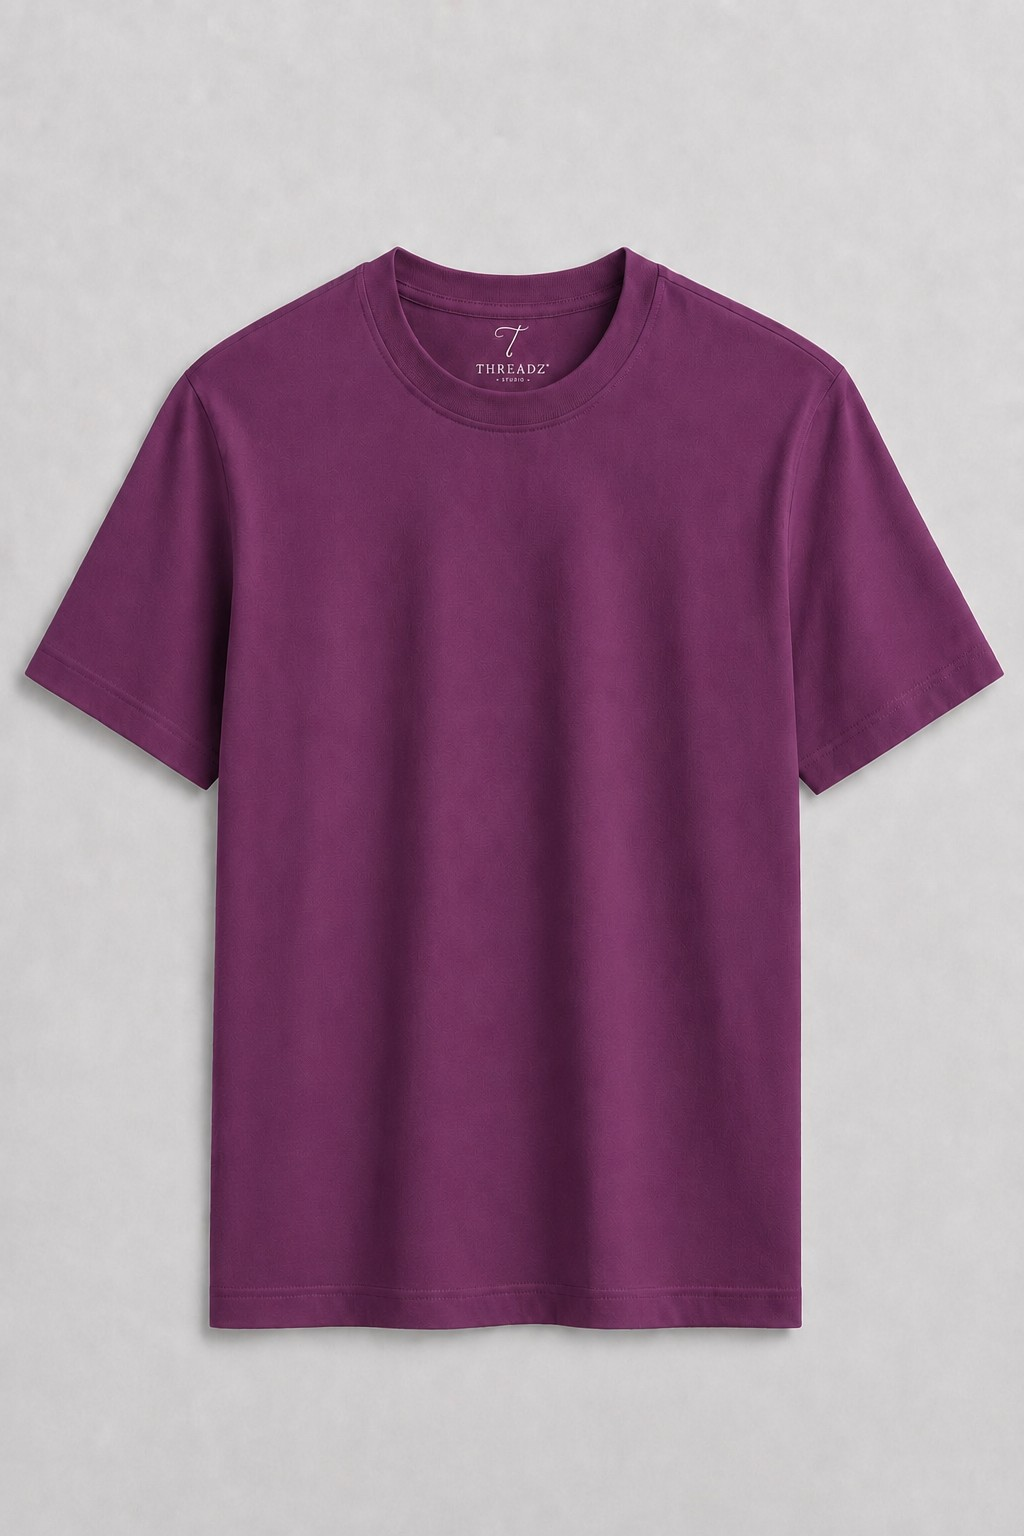
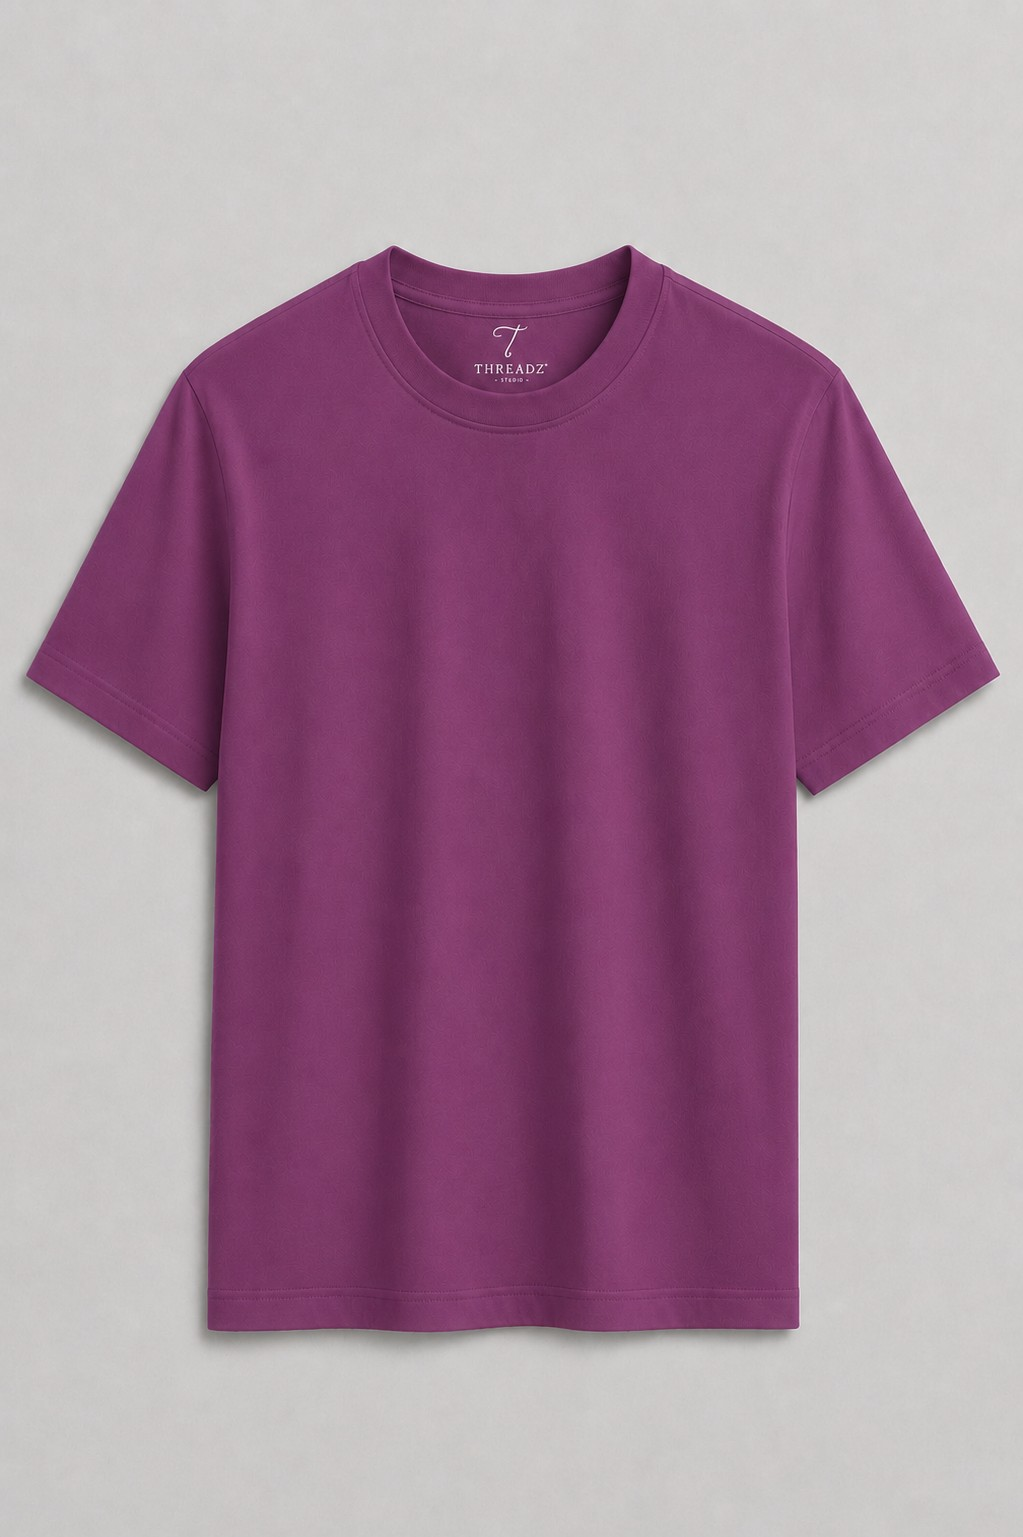
Refactor product rating display across various components to use the new ProductRating component, enhancing code consistency and maintainability. Update payment page to streamline payment method handling and improve user experience during checkout.

diff --git a/src/app/checkout/payment/page.tsx b/src/app/checkout/payment/page.tsx
@@ -8,12 +8,8 @@ import { CheckoutProgress } from "@/components/checkout/checkout-progress";
 import { CheckoutLoadingOverlay } from "@/components/checkout/checkout-loading-overlay";
 import { Button } from "@/components/ui/button";
 import { Card, CardContent } from "@/components/ui/card";
-import { Label } from "@/components/ui/label";
-import { RadioGroup, RadioGroupItem } from "@/components/ui/radio-group";
-import { ArrowLeft, CreditCard, Landmark, Loader2, Wallet } from "lucide-react";
+import { ArrowLeft, Loader2, ShieldCheck } from "lucide-react";
 import { toast } from "sonner";
-
-type PaymentMethod = "upi" | "card" | "cod";
 
 function formatAddressLine(address: NonNullable<ReturnType<typeof useCart>["shippingAddress"]>) {
   const parts = [
@@ -29,7 +25,6 @@ export default function PaymentPage() {
   const router = useRouter();
   const { cartItems, cartTotal, shippingAddress, clearCart, clearShippingAddress } = useCart();
   const [isChecking, setIsChecking] = useState(true);
-  const [method, setMethod] = useState<PaymentMethod>("upi");
   const [isPlacingOrder, setIsPlacingOrder] = useState(false);
 
   useEffect(() => {
@@ -52,41 +47,11 @@ export default function PaymentPage() {
   const tax = useMemo(() => Math.round(cartTotal * 0.18), [cartTotal]);
   const total = cartTotal + tax;
 
-  const placeOrder = async () => {
+  const payAndProceed = async () => {
     if (!shippingAddress) return;
 
     setIsPlacingOrder(true);
     try {
-      // For Cash on Delivery, continue with existing order flow
-      if (method === "cod") {
-        const response = await fetch("/api/orders", {
-          method: "POST",
-          headers: { "Content-Type": "application/json" },
-          body: JSON.stringify({
-            orderId,
-            shippingAddress,
-            paymentMethod: method,
-            cartItems,
-            subtotal: cartTotal,
-            tax,
-            total,
-          }),
-        });
-
-        const data = (await response.json()) as { error?: string; orderId?: string };
-
-        if (!response.ok) {
-          throw new Error(data.error ?? "Failed to place order");
-        }
-
-        toast.success("Order placed! Payment on delivery.");
-        clearCart();
-        clearShippingAddress();
-        router.push(`/checkout/success?orderId=${encodeURIComponent(data.orderId ?? orderId)}`);
-        return;
-      }
-
-      // For online payments (UPI / Card) create Razorpay order on the Next.js server
       const createRes = await fetch("/api/checkout/razorpay/create-order", {
         method: "POST",
         headers: { "Content-Type": "application/json" },
@@ -98,13 +63,17 @@ export default function PaymentPage() {
         throw new Error(err.error ?? "Failed to create payment order");
       }
 
-      const order = (await createRes.json()) as any;
+      const order = (await createRes.json()) as {
+        id: string;
+        amount: number;
+        currency: string;
+        receipt?: string;
+      };
 
-      // Load Razorpay checkout script
       const loadRazorpay = () =>
         new Promise<boolean>((resolve) => {
           if (typeof window === "undefined") return resolve(false);
-          if ((window as any).Razorpay) return resolve(true);
+          if ((window as Window & { Razorpay?: unknown }).Razorpay) return resolve(true);
           const script = document.createElement("script");
           script.src = "https://checkout.razorpay.com/v1/checkout.js";
           script.onload = () => resolve(true);
@@ -115,11 +84,11 @@ export default function PaymentPage() {
       const ok = await loadRazorpay();
       if (!ok) throw new Error("Failed to load Razorpay SDK");
 
-      // Public test key (matches server). Replace with env var in production.
-      const RAZORPAY_KEY = process.env.NEXT_PUBLIC_RAZORPAY_KEY_ID;;
+      const razorpayKey = process.env.NEXT_PUBLIC_RAZORPAY_KEY_ID;
+      if (!razorpayKey) throw new Error("Payment service is not configured");
 
       const options = {
-        key: RAZORPAY_KEY,
+        key: razorpayKey,
         amount: order.amount,
         currency: order.currency,
         name: "Threadz",
@@ -131,16 +100,16 @@ export default function PaymentPage() {
             setIsPlacingOrder(false);
           },
         },
-        handler: async (response: any) => {
+        handler: async (response: {
+          razorpay_order_id: string;
+          razorpay_payment_id: string;
+          razorpay_signature: string;
+        }) => {
           try {
             const verifyRes = await fetch("/api/checkout/razorpay/verify-payment", {
               method: "POST",
               headers: { "Content-Type": "application/json" },
-              body: JSON.stringify({
-                razorpay_order_id: response.razorpay_order_id,
-                razorpay_payment_id: response.razorpay_payment_id,
-                razorpay_signature: response.razorpay_signature,
-              }),
+              body: JSON.stringify(response),
             });
 
             const verifyData = await verifyRes.json().catch(() => ({}));
@@ -155,7 +124,7 @@ export default function PaymentPage() {
               body: JSON.stringify({
                 orderId,
                 shippingAddress,
-                paymentMethod: method,
+                paymentMethod: "razorpay",
                 cartItems,
                 subtotal: cartTotal,
                 tax,
@@ -172,7 +141,7 @@ export default function PaymentPage() {
             clearCart();
             clearShippingAddress();
             router.push(
-              `/checkout/success?orderId=${encodeURIComponent(orderData.orderId ?? orderId)}`
+              `/checkout/success?orderId=${encodeURIComponent(orderData.orderId ?? orderId)}`,
             );
           } catch (err) {
             const msg = err instanceof Error ? err.message : "Payment verification failed";
@@ -186,9 +155,9 @@ export default function PaymentPage() {
           contact: shippingAddress.phone,
         },
         theme: { color: "#000000" },
-      } as any;
+      };
 
-      const rzp = new (window as any).Razorpay(options);
+      const rzp = new (window as Window & { Razorpay: new (opts: typeof options) => { open: () => void } }).Razorpay(options);
       rzp.open();
     } catch (error) {
       const message = error instanceof Error ? error.message : "Payment failed. Please try again.";
@@ -204,7 +173,7 @@ export default function PaymentPage() {
   return (
     <div className="container mx-auto px-4 py-12">
       {isPlacingOrder && (
-        <CheckoutLoadingOverlay message="Processing your payment..." />
+        <CheckoutLoadingOverlay message="Opening secure payment..." />
       )}
 
       <div className="flex items-center justify-between mb-4">
@@ -227,65 +196,20 @@ export default function PaymentPage() {
           <Card className="border-neutral-200 rounded-none">
             <CardContent className="p-6">
               <h1 className="text-3xl font-serif mb-2">Payment</h1>
-              <p className="text-sm text-neutral-600">
-                Choose a payment method to complete your order.
+              <p className="text-sm text-neutral-600 mb-6">
+                Pay securely via Razorpay. Choose UPI, cards, netbanking, or wallets in the
+                next step.
               </p>
 
-              <fieldset disabled={isPlacingOrder} className="mt-6">
-                <Label className="text-sm">Payment method</Label>
-                <RadioGroup
-                  className="mt-3 space-y-3"
-                  value={method}
-                  onValueChange={(v) => setMethod(v as PaymentMethod)}
-                >
-                  <div className="flex items-start gap-3 border border-neutral-300 bg-white p-4 rounded-none">
-                    <RadioGroupItem value="upi" id="upi" className="mt-1" />
-                    <div className="flex-1">
-                      <div className="flex items-center gap-2">
-                        <Wallet className="h-4 w-4" />
-                        <Label htmlFor="upi" className="font-medium">
-                          UPI
-                        </Label>
-                      </div>
-                      <p className="text-xs text-neutral-600 mt-1">
-                        Pay via UPI apps (GPay, PhonePe, Paytm).
-                      </p>
-                    </div>
-                  </div>
+              <div className="flex items-start gap-3 border border-neutral-200 bg-neutral-50 p-4 rounded-none mb-8">
+                <ShieldCheck className="h-5 w-5 text-neutral-700 mt-0.5 shrink-0" />
+                <div className="text-sm text-neutral-600">
+                  <p className="font-medium text-neutral-900 mb-1">Secure checkout powered by Razorpay</p>
+                  <p>UPI, debit/credit cards, netbanking, and wallets are available in the payment window.</p>
+                </div>
+              </div>
 
-                  <div className="flex items-start gap-3 border border-neutral-300 bg-white p-4 rounded-none">
-                    <RadioGroupItem value="card" id="card" className="mt-1" />
-                    <div className="flex-1">
-                      <div className="flex items-center gap-2">
-                        <CreditCard className="h-4 w-4" />
-                        <Label htmlFor="card" className="font-medium">
-                          Card
-                        </Label>
-                      </div>
-                      <p className="text-xs text-neutral-600 mt-1">
-                        Debit / Credit card.
-                      </p>
-                    </div>
-                  </div>
-
-                  <div className="flex items-start gap-3 border border-neutral-300 bg-white p-4 rounded-none">
-                    <RadioGroupItem value="cod" id="cod" className="mt-1" />
-                    <div className="flex-1">
-                      <div className="flex items-center gap-2">
-                        <Landmark className="h-4 w-4" />
-                        <Label htmlFor="cod" className="font-medium">
-                          Cash on delivery
-                        </Label>
-                      </div>
-                      <p className="text-xs text-neutral-600 mt-1">
-                        Pay when the order arrives.
-                      </p>
-                    </div>
-                  </div>
-                </RadioGroup>
-              </fieldset>
-
-              <div className="mt-8 flex gap-3 justify-end">
+              <div className="flex gap-3 justify-end">
                 <Button
                   variant="outline"
                   className="rounded-none"
@@ -295,8 +219,8 @@ export default function PaymentPage() {
                   Edit shipping
                 </Button>
                 <Button
-                  className="rounded-none bg-black text-white hover:bg-neutral-800 min-w-[180px]"
-                  onClick={placeOrder}
+                  className="rounded-none bg-black text-white hover:bg-neutral-800 min-w-[200px]"
+                  onClick={payAndProceed}
                   disabled={isPlacingOrder}
                 >
                   {isPlacingOrder ? (
@@ -305,7 +229,7 @@ export default function PaymentPage() {
                       Processing...
                     </>
                   ) : (
-                    "Pay & place order"
+                    "Pay & Proceed"
                   )}
                 </Button>
               </div>

diff --git a/src/components/product-rating.tsx b/src/components/product-rating.tsx
@@ -1,0 +1,35 @@
+import { Star, StarHalf } from "lucide-react";
+import { cn } from "@/components/ui/utils";
+
+type ProductRatingProps = {
+  size?: "sm" | "md";
+  showValue?: boolean;
+  className?: string;
+};
+
+const RATING = 4.5;
+
+export function ProductRating({
+  size = "sm",
+  showValue = true,
+  className,
+}: ProductRatingProps) {
+  const starClass = size === "sm" ? "w-3 h-3" : "w-4 h-4";
+  const textClass = size === "sm" ? "text-xs" : "text-sm";
+
+  return (
+    <div className={cn("flex items-center gap-1.5", className)}>
+      <div className="flex items-center gap-0.5">
+        {[1, 2, 3, 4].map((star) => (
+          <Star key={star} className={cn(starClass, "fill-yellow-500 text-yellow-500")} />
+        ))}
+        <StarHalf className={cn(starClass, "fill-yellow-500 text-yellow-500")} />
+      </div>
+      {showValue && (
+        <span className={cn(textClass, "text-neutral-600 tabular-nums")}>
+          {RATING} avg
+        </span>
+      )}
+    </div>
+  );
+}

diff --git a/src/app/home-content.tsx b/src/app/home-content.tsx
@@ -2,7 +2,8 @@
 
 import { useRouter } from "next/navigation";
 import { Button } from "@/components/ui/button";
-import { ArrowRight, Sparkles, Star } from "lucide-react";
+import { ArrowRight, Sparkles } from "lucide-react";
+import { ProductRating } from "@/components/product-rating";
 import { Card, CardContent } from "@/components/ui/card";
 import { Badge } from "@/components/ui/badge";
 import { ProductImage } from "@/components/product-image";
@@ -89,15 +90,7 @@ export default function HomeContent({ products }: HomeContentProps) {
                         {product.category}
                       </Badge>
                     </div>
-                    <div className="flex items-center gap-1 mb-1">
-                      {[1, 2, 3, 4].map((star) => (
-                        <Star
-                          key={star}
-                          className="w-3 h-3 fill-yellow-500 text-yellow-500"
-                        />
-                      ))}
-                      <Star className="w-3 h-3 text-muted-foreground" />
-                    </div>
+                    <ProductRating className="mb-1" />
                     <h3 className="font-medium mb-1 text-card-foreground">{product.name}</h3>
                     <p className="text-sm text-muted-foreground mb-1">{product.color}</p>
                     <p className="text-xs text-muted-foreground mb-2 line-clamp-1">{product.quality}</p>

diff --git a/src/app/product/[id]/product-detail-content.tsx b/src/app/product/[id]/product-detail-content.tsx
@@ -12,7 +12,6 @@ import {
   ChevronLeft,
   Heart,
   Share2,
-  Star,
   Truck,
   RotateCcw,
   Banknote,
@@ -20,6 +19,7 @@ import {
 import { toast } from "sonner";
 import { PRODUCT_CATEGORIES } from "@/data/categories";
 import { ProductImage } from "@/components/product-image";
+import { ProductRating } from "@/components/product-rating";
 import { KeyHighlights } from "@/components/product/key-highlights";
 import type { Product } from "@/types/product";
 
@@ -121,14 +121,7 @@ export default function ProductDetailContent({
           </div>
           <p className="text-sm text-neutral-600 mb-4">inclusive of all taxes</p>
 
-          <div className="flex items-center gap-2 mb-2">
-            <div className="flex items-center gap-1">
-              {[1, 2, 3, 4].map((star) => (
-                <Star key={star} className="w-4 h-4 fill-yellow-500 text-yellow-500" />
-              ))}
-              <Star className="w-4 h-4 text-neutral-300" />
-            </div>
-          </div>
+          <ProductRating size="md" className="mb-2" />
 
           <p className="text-sm text-red-600 mb-6">Lowest price in last 30 days</p>
 

diff --git a/src/app/shop/shop-content.tsx b/src/app/shop/shop-content.tsx
@@ -6,7 +6,7 @@ import type { Product } from "@/types/product";
 import { Button } from "@/components/ui/button";
 import { Card, CardContent } from "@/components/ui/card";
 import { Badge } from "@/components/ui/badge";
-import { Star } from "lucide-react";
+import { ProductRating } from "@/components/product-rating";
 import {
   Select,
   SelectContent,
@@ -128,12 +128,7 @@ export default function ShopContent({ products, shopCategories }: ShopContentPro
                         </Badge>
                       )}
                     </div>
-                    <div className="flex items-center gap-1 mb-1">
-                    {[1, 2, 3, 4].map((star) => (
-                      <Star key={star} className="w-3 h-3 fill-yellow-500 text-yellow-500" />
-                    ))}
-                    <Star className="w-3 h-3 text-neutral-300" />
-                  </div>
+                    <ProductRating className="mb-1" />
                     <h3 className="font-medium mb-1">{product.name}</h3>
                     <p className="text-sm text-neutral-600 mb-1">{product.color}</p>
                     <p className="text-xs text-neutral-500 mb-2 line-clamp-1">{product.quality}</p>